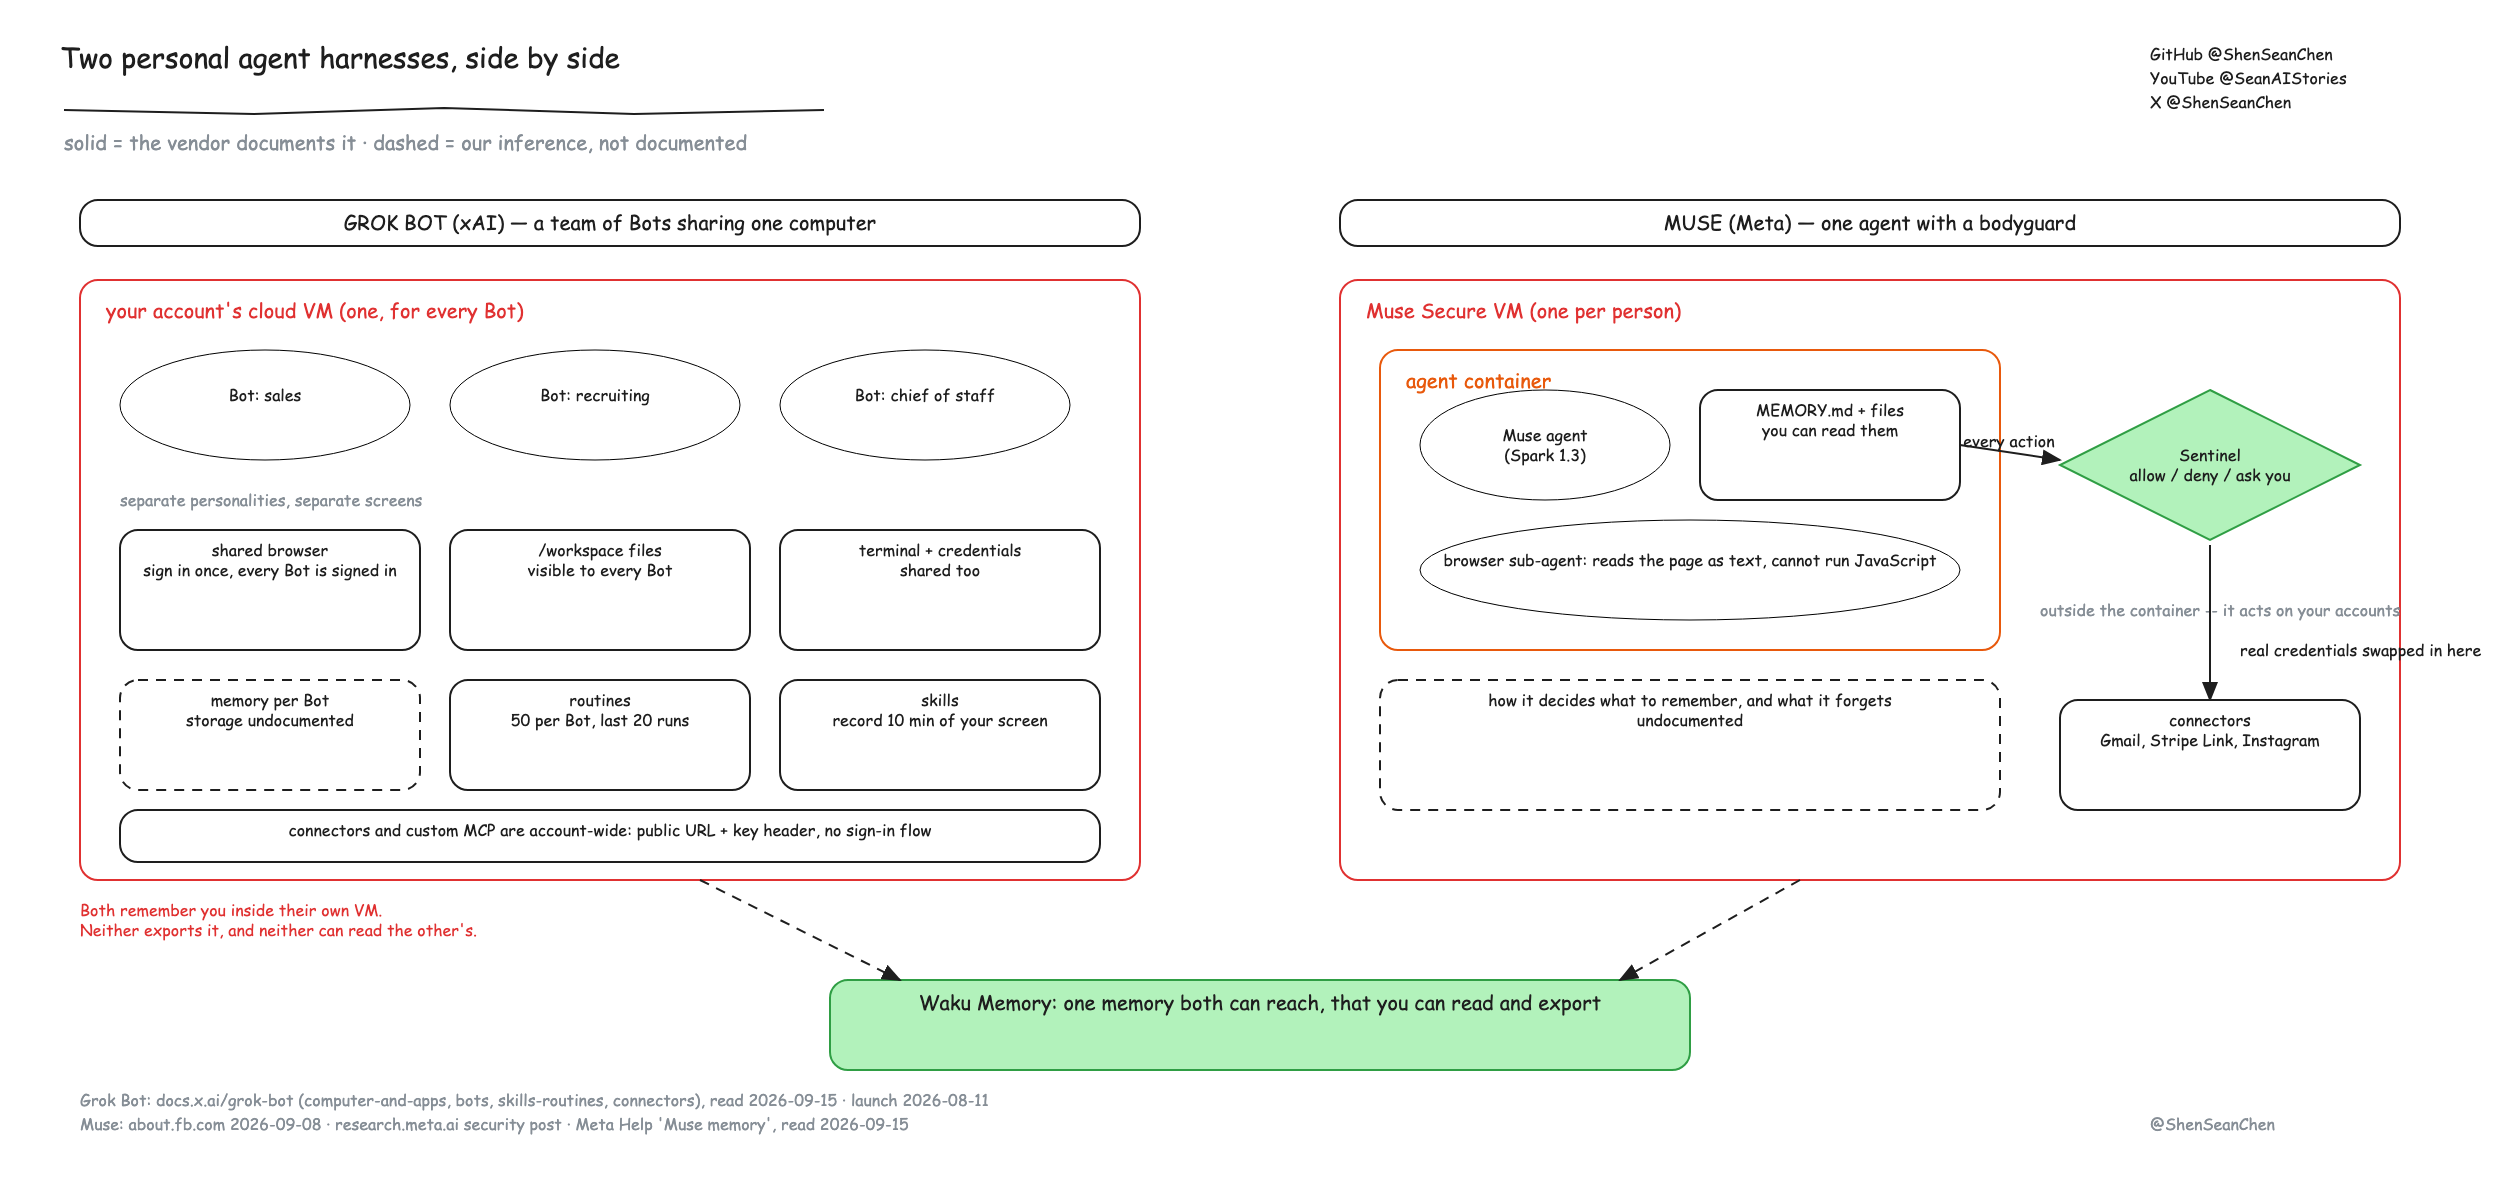
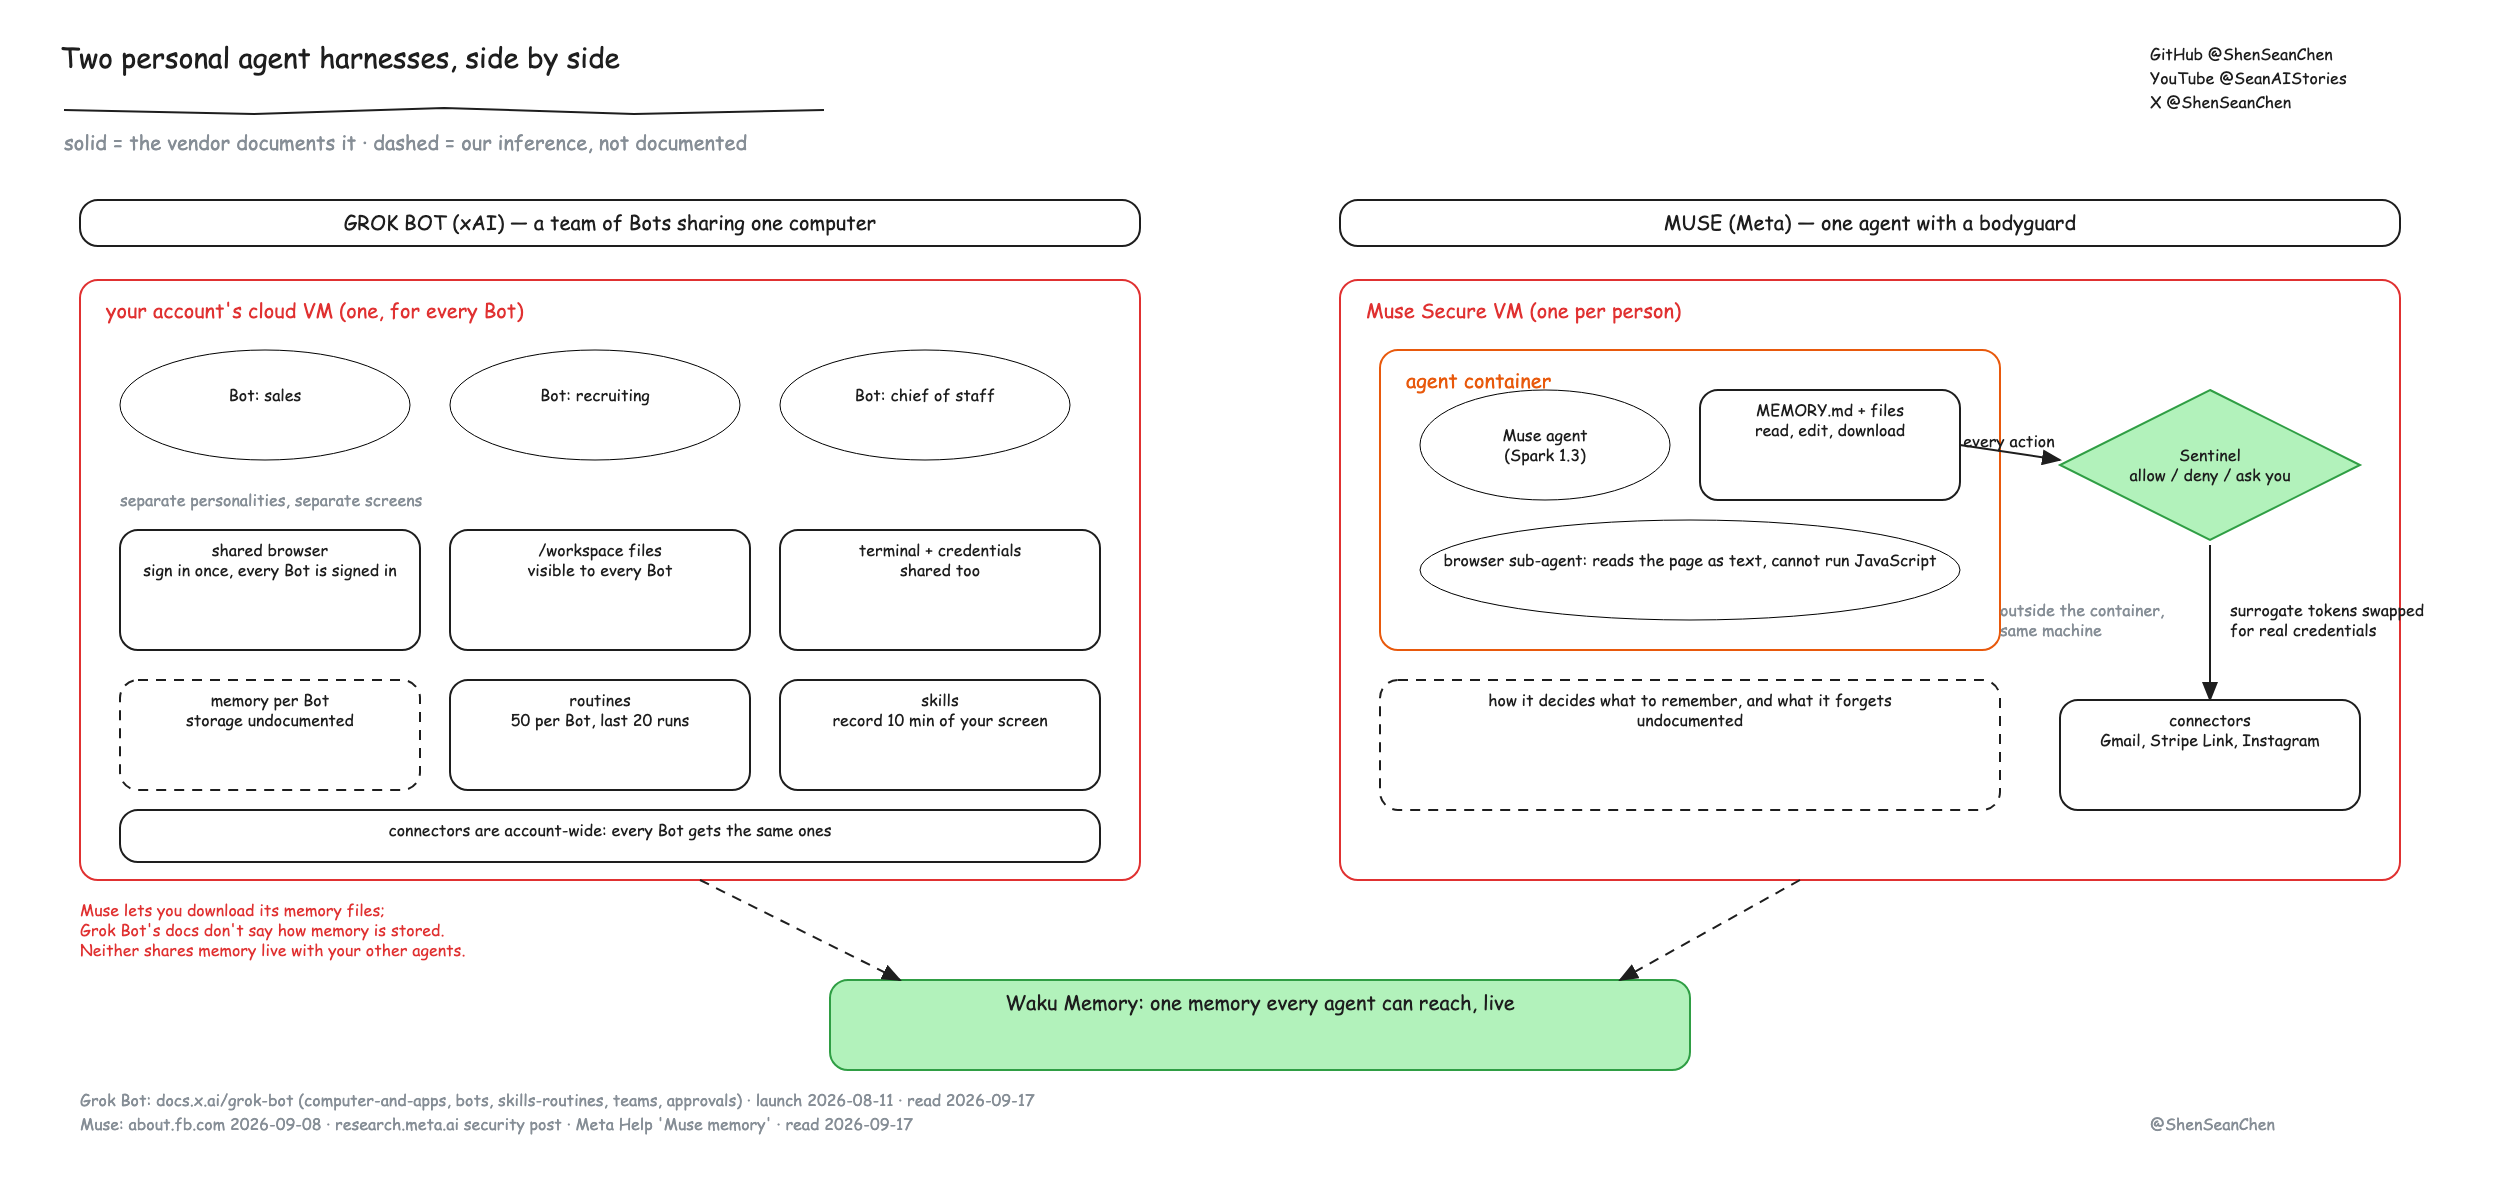
Lab one-memory-every-agent: correct claims against official docs (#207)
A fact-check against xAI and Meta pages overturned several claims: Muse's
memory files can be downloaded, Grok Bot's docs never say it has no export,
Meta doesn't mention MCP rather than ruling it out, Sentinel sits outside
the agent's container on the same machine, and credentials are surrogate
tokens. Grok Bot has no buying example. Screenshots are redrawn to match.

diff --git a/lab/one-memory-every-agent/README.md b/lab/one-memory-every-agent/README.md
@@ -1,8 +1,9 @@
 # One memory, every agent
 
 Grok Bot and Meta's Muse are personal agents that live on their own cloud
-computers and remember you. Both keep that memory inside their own walls: you
-cannot export it, and neither can hand it to the other. This topic connects
+computers and remember you. Muse lets you download its memory files, and
+Grok Bot's docs don't say how its memory is stored; neither one shares memory
+live with the other agents you use. This topic connects
 both of them, together with Claude Code, Codex and the Waku agent, to one
 memory, Waku Memory, and checks which of them can find a fact that another one
 saved.
@@ -20,12 +21,12 @@ Waku agent?
 | Claude Code | `npx waku-memory setup` ([waku.one/docs](https://www.waku.one/docs)) | `waku skill export --to claude` |
 | Codex | `npx waku-memory capture enable` ([waku.one/docs](https://www.waku.one/docs)) | `waku skill export --to codex` |
 | Grok Bot | Settings → Plugins → custom MCP connector: URL `https://api.waku.one/mcp`, header `Authorization: Bearer <key>` | its own: record a task on screen and it becomes a skill |
-| Muse ([muse.ai](https://muse.ai)) | No MCP. Ask Muse to build a custom connector to Waku Memory's web API with a key: search is `GET /memories?q=…`, and saving is `POST /imports`, which Waku Memory turns into memories in the background | none exposed |
+| Muse ([muse.ai](https://muse.ai)) | Meta doesn't mention MCP; Muse builds its own custom connectors. Ask it to build one to Waku Memory's web API with a key: search is `GET /memories?q=…`, and saving is `POST /imports`, which Waku Memory turns into memories in the background | none exposed |
 
-Grok Bot's connector form takes a URL and headers, and its MCP sign-in never
-runs (a public issue, 2026-09-07), so it needs a Waku Memory key from waku.one
-→ Account → Keys. Muse has no MCP at all, which makes its row the real
-experiment: can an agent build its own connector to a memory it has never
+Grok's connector docs allow custom MCP servers at public URLs, and a public
+issue (2026-09-07) reports the sign-in flow not running, so use a Waku Memory
+key from waku.one → Account → Keys. Meta doesn't mention MCP for Muse, which
+makes its row the real experiment: can an agent build its own connector to a memory it has never
 seen? Claude Code, Codex and the Waku agent sign in through the browser.
 
 Verified against: waku-agent 0.1.8 connecting to Waku Memory's MCP server, 2026-09-14. Grok Bot and Muse have not been run yet.
@@ -37,20 +38,20 @@ Verified against: waku-agent 0.1.8 connecting to Waku Memory's MCP server, 2026-
 | Inbox and daily digest | a "chief of staff" routine across Slack, email and calendar | a Gmail connector with read/send permissions you set; Sentinel approves each send |
 | Web research and errands | a browser on the shared computer; one sign-in is shared by every Bot | a browser sub-agent that sees a simplified page and cannot run JavaScript; PYMNTS gave it 3 errands and it completed 0 |
 | Recurring work | routines on a schedule or an event, up to 50 per Bot | turns long-term goals into plans; no routines documented |
-| Buying things | not a focus: its official workflows stop before anything is sent | Stripe Link single-use cards, and it asks every time |
+| Buying things | no buying example; purchases are listed as needing your approval | Stripe Link single-use cards, and it asks every time |
 | Who it is for | 8 official use cases, all work: sales, recruiting, ads, incidents | life: recipes from saved reels, dinner parties, bills |
 | Teaching it | record 10 minutes of your screen and it becomes a skill; shareable templates | no skills exposed; it builds its own connectors to public web APIs |
-| Security | one VM for all your Bots: "isolate personalities, not compute" | a VM per user, plus Sentinel, a separate agent that approves every action; the agent only sees stand-in credentials |
-| Memory | kept per Bot, with no view, no edit and no export; deleting a Bot wipes its memory but keeps its files | a MEMORY.md file in the VM that you can read, and a "forget" skill, but no export; Meta says it "may still remember" what you deleted |
-| Outside tools | custom MCP servers: public URLs only, with a key header | no MCP; custom connectors to public web APIs |
-| Where and what it costs | desktop and mobile; bundled with SuperGrok and Cursor plans | US only; free, with paid tiers |
+| Security | one VM for all your Bots: "isolate personalities and workspaces, not compute" | a VM per user; Sentinel, a separate agent outside the agent's container on the same machine, approves actions; the agent only sees surrogate tokens |
+| Memory | keeps working preferences, facts and summaries; how it is stored is not documented; deleting a Bot keeps shared files and sign-ins | memory files (MEMORY.md) you can read, edit and download; a "forget" skill; Meta says it may still remember what you deleted |
+| Outside tools | account-wide connectors; Grok's connector docs allow custom MCP at public URLs | MCP not mentioned; it builds custom connectors |
+| Where and what it costs | desktop and mobile; xAI's pages disagree on which plans include it | rolling out in the US; free, with paid tiers |
 
 Sources, read 2026-09-15: [xAI, Introducing Grok Bot](https://x.ai/news/introducing-grok-bot) (2026-08-11) ·
 [Grok Bot docs](https://docs.x.ai/grok-bot/bots) · [Grok Bot use cases](https://docs.x.ai/grok-bot/use-cases) ·
 [Vellum teardown](https://www.vellum.ai/blog/official-grok-bot-breakdown) (2026-08-20) ·
-[Grok MCP sign-in issue](https://github.com/ergofobe/imogen-server/issues/27) (2026-09-07) ·
+[Grok connectors](https://docs.x.ai/grok/connectors) · [Grok MCP sign-in issue, third-party](https://github.com/ergofobe/imogen-server/issues/27) (2026-09-07) ·
 [Meta, Introducing Muse](https://about.fb.com/news/2026/09/introducing-muse-personal-ai-agent/) (2026-09-08) ·
-[Meta, Muse security](https://research.meta.ai/blog/security-and-safety-for-ai-agents-our-approach-with-muse) ·
+[Meta, Muse security](https://research.meta.ai/blog/security-and-safety-for-ai-agents-our-approach-with-muse) · [How We Designed Muse](https://introducing.muse.ai/) ·
 [Meta Help, Muse memory](https://www.meta.com/help/artificial-intelligence/1047255454427887/) ·
 [PYMNTS errands test](https://www.pymnts.com/news/artificial-intelligence/2026/meta-muse-cannot-order-pizza-without-help) (2026-09-09).
 
@@ -91,12 +92,14 @@ This table is filled in from real runs only.
 
 - **Title:** Grok Bot vs Meta Muse: Who Owns What Your Agent Knows About You?
 - **Hook:** Grok Bot gives your Bots separate personalities but one computer.
-  Muse keeps what it knows about you in a text file you can read but cannot
-  take with you.
-- **The finding to test on camera:** neither agent exports its memory, so give
-  both of them one memory they can reach, and see which one can actually use it.
+  Muse keeps what it knows about you in files you can download, but a download
+  is a snapshot that stops updating.
+- **The finding to test on camera:** neither agent shares its memory live with
+  your other agents, so give both of them one memory they can reach, and see
+  which one can actually use it.
 - **The objection to raise yourself:** why hand your memory to a third company?
-  Because you can see it, edit it and export it, which neither vendor offers.
+  Because it is one memory every agent reads live. Be plain that Waku Memory
+  has no one-click export yet.
   Others sell shared memory too (Mem0's OpenMemory, MIND's Grok plugin).
 - **Boards.** These are screenshots of first drafts; the editable sources stay
   private, and the boards filmed for the video are redrawn by hand.
